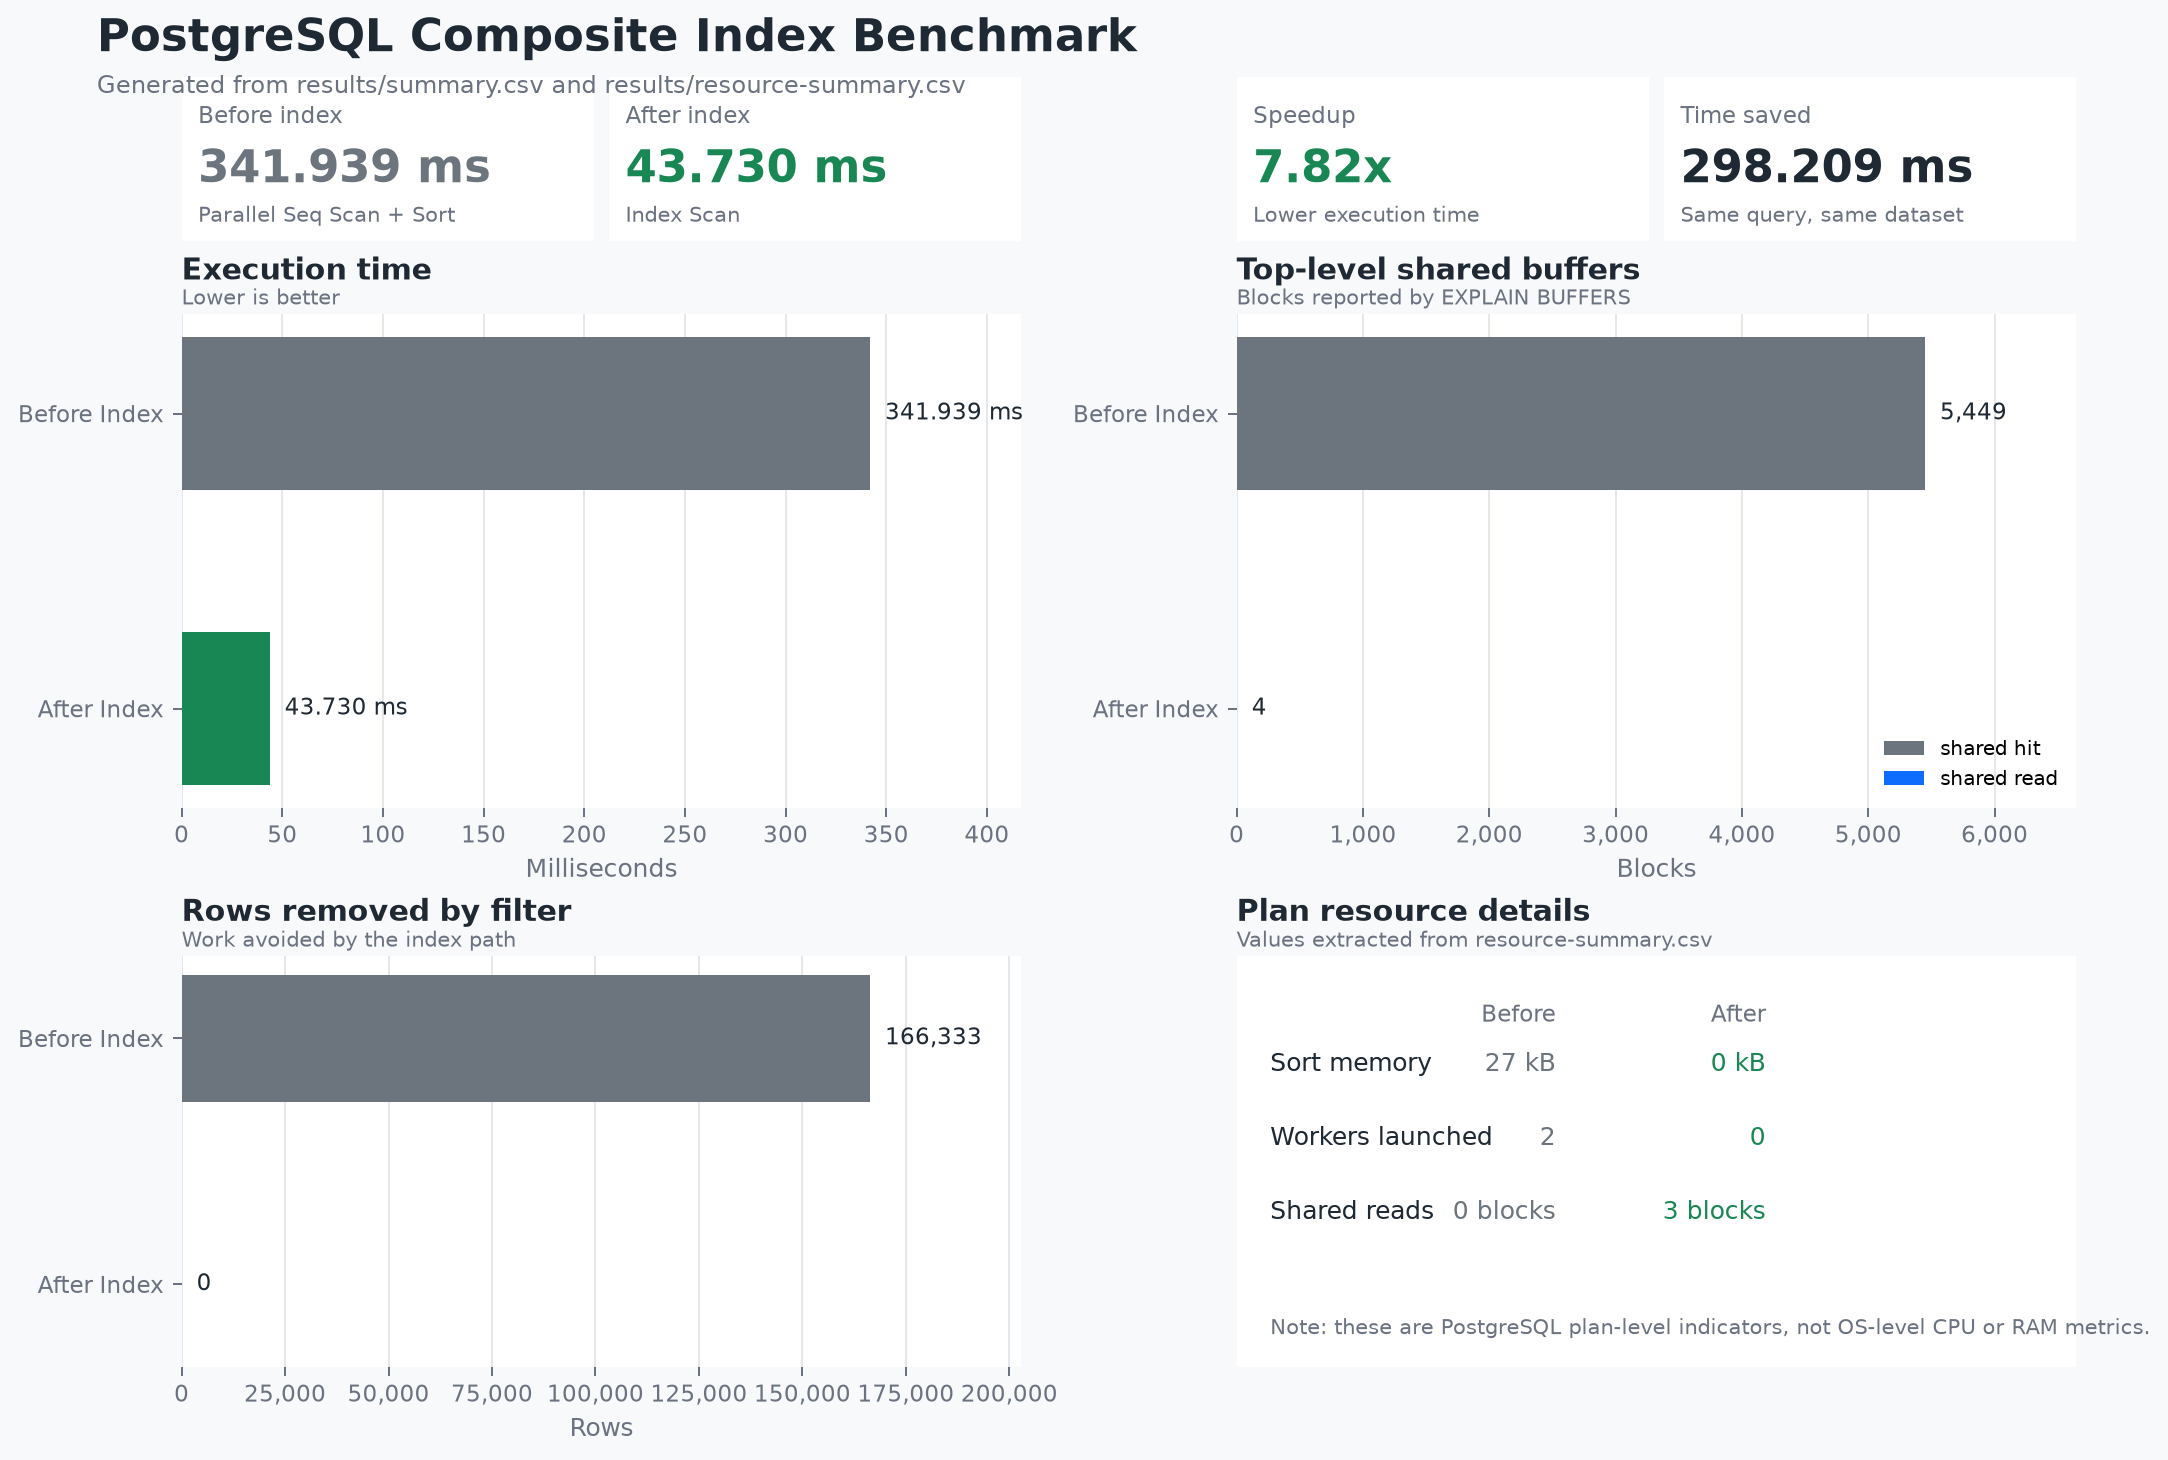
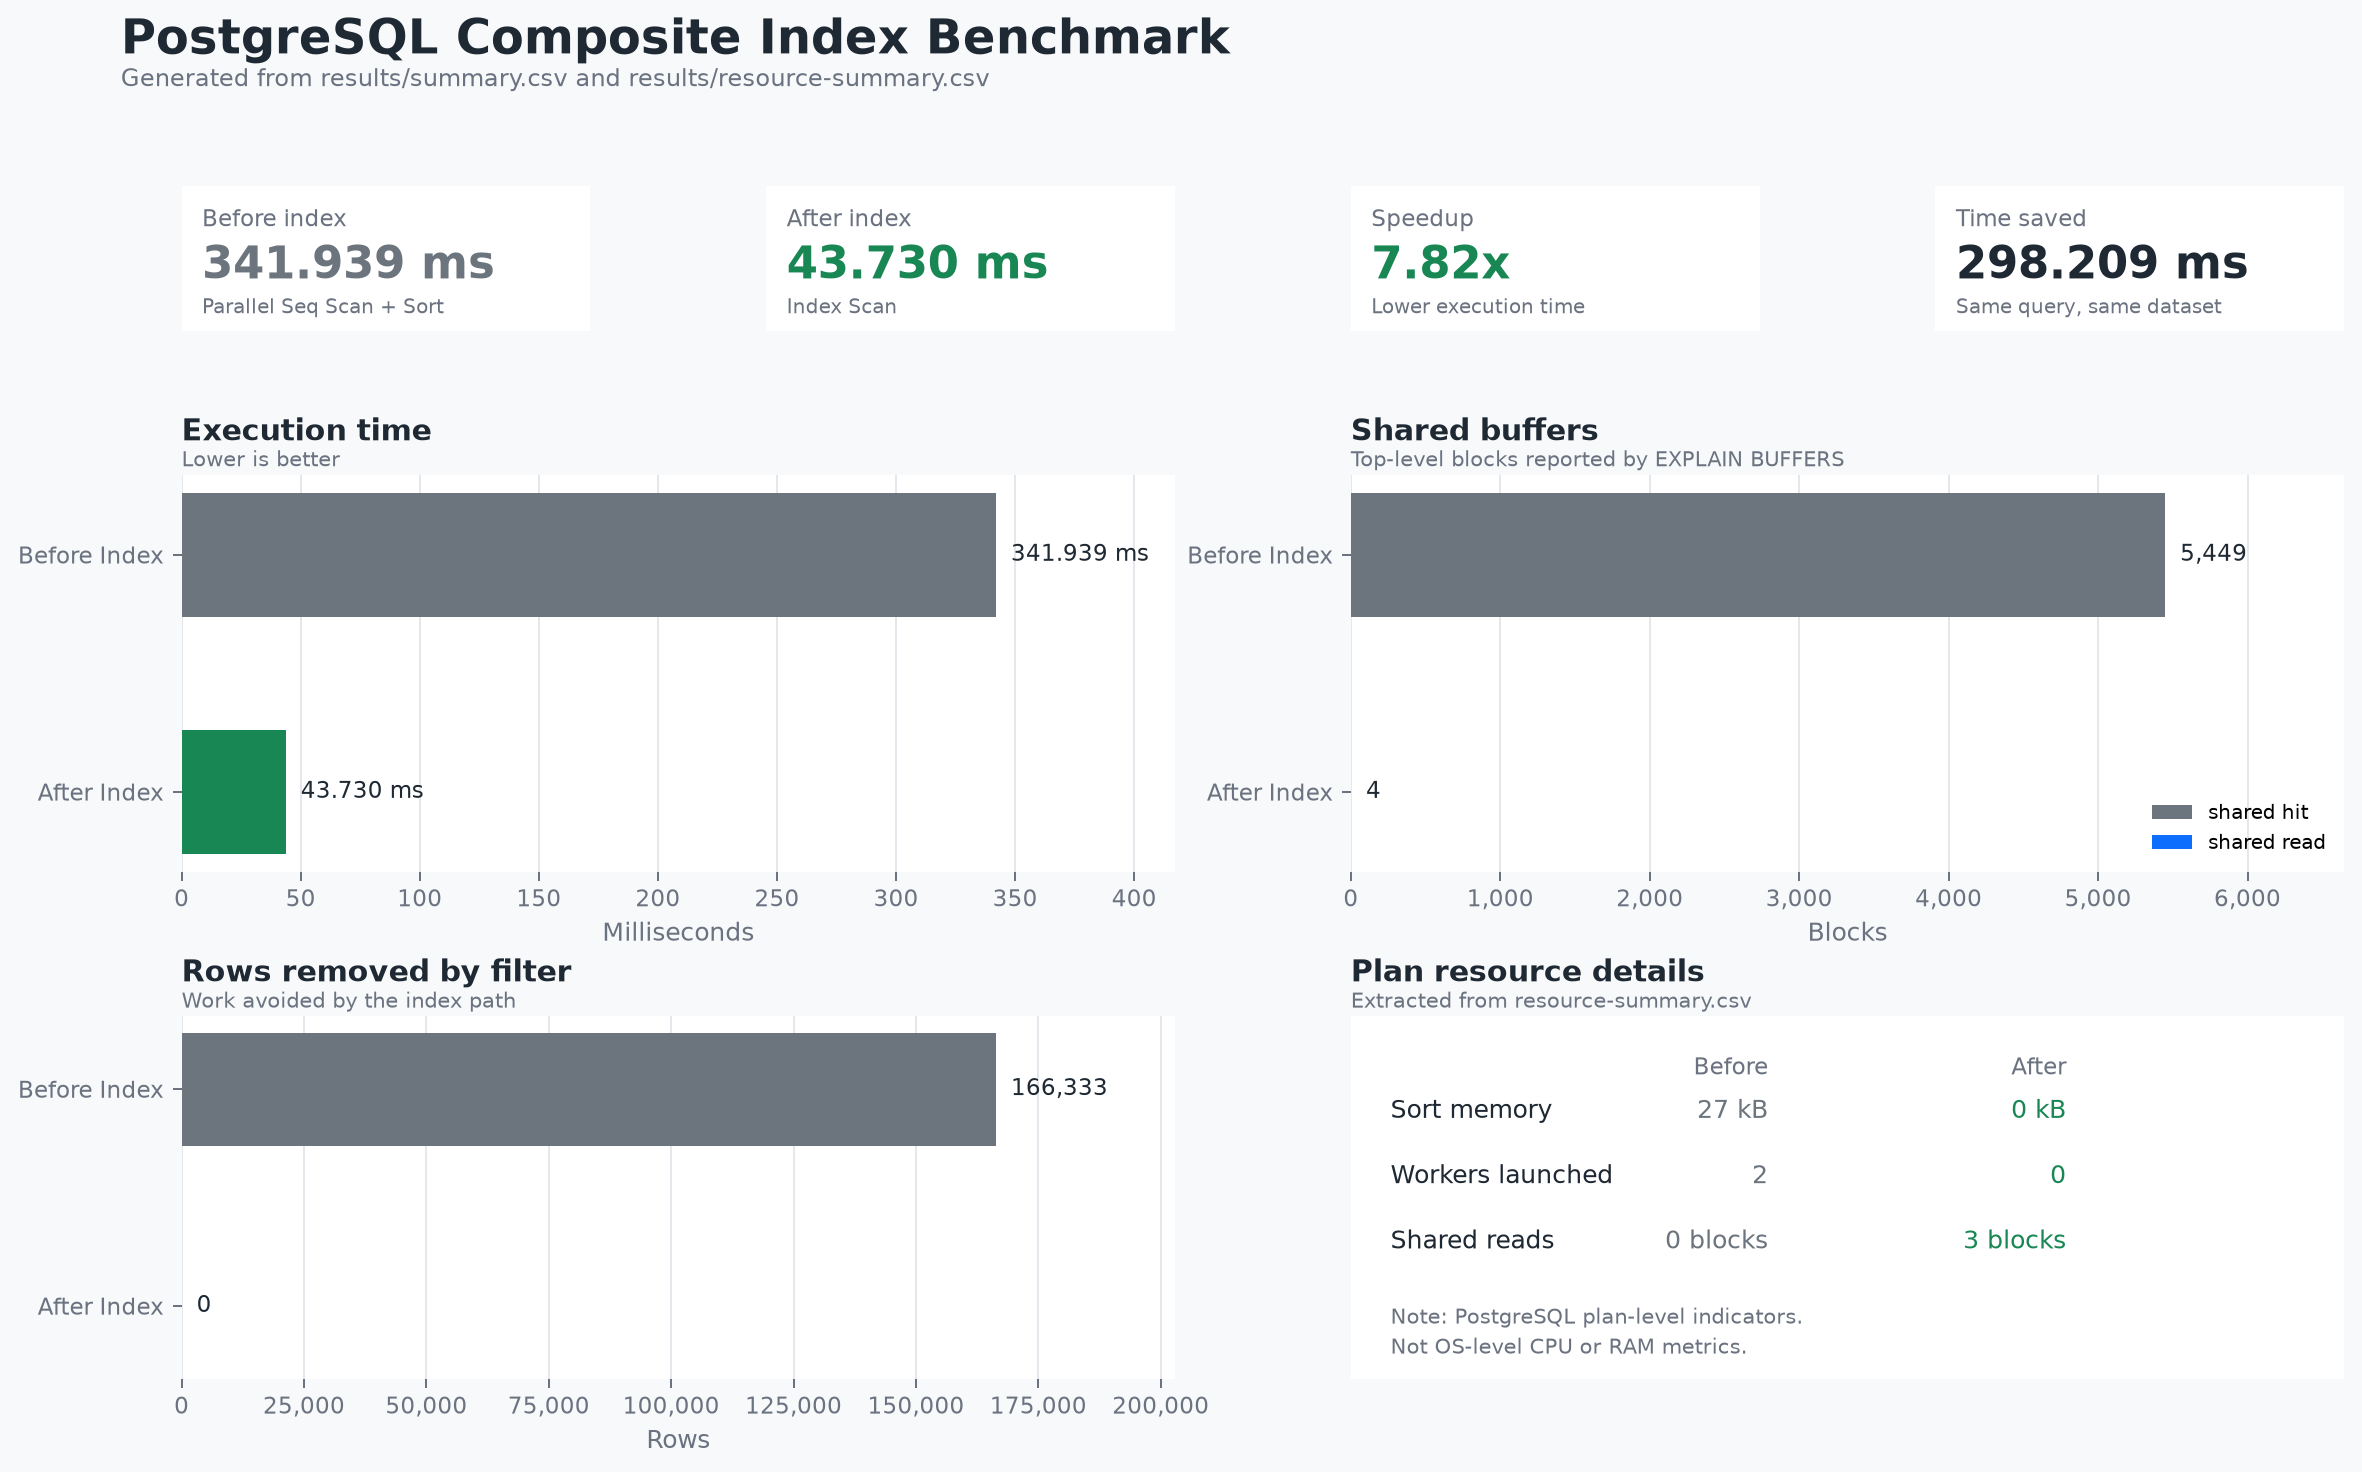
Better-visual

diff --git a/scripts/generate_chart.py b/scripts/generate_chart.py
@@ -3,6 +3,7 @@ from typing import Optional
 
 import matplotlib.pyplot as plt
 import pandas as pd
+from matplotlib.gridspec import GridSpec
 from matplotlib.ticker import FuncFormatter
 
 
@@ -104,25 +105,37 @@ def main() -> None:
         }
     )
 
-    fig = plt.figure(figsize=(12, 8), constrained_layout=True)
+    fig = plt.figure(figsize=(13.5, 8.5))
     fig.suptitle(
         "PostgreSQL Composite Index Benchmark",
-        fontsize=18,
+        fontsize=19,
         fontweight="bold",
         color=TEXT_COLOR,
-        x=0.04,
+        x=0.055,
+        y=0.97,
         ha="left",
     )
     fig.text(
-        0.04,
-        0.942,
+        0.055,
+        0.925,
         "Generated from results/summary.csv and results/resource-summary.csv",
         fontsize=9.5,
         color=MUTED_TEXT_COLOR,
         ha="left",
     )
 
-    layout = fig.add_gridspec(3, 4, height_ratios=[0.8, 2.4, 2.0])
+    layout = GridSpec(
+        3,
+        4,
+        figure=fig,
+        left=0.08,
+        right=0.97,
+        top=0.86,
+        bottom=0.08,
+        hspace=0.48,
+        wspace=0.43,
+        height_ratios=[0.86, 2.35, 2.15],
+    )
     kpi_axes = [fig.add_subplot(layout[0, i]) for i in range(4)]
     ax_time = fig.add_subplot(layout[1, :2])
     ax_buffers = fig.add_subplot(layout[1, 2:])
@@ -142,9 +155,9 @@ def main() -> None:
         ax.set_yticks([])
         for spine in ax.spines.values():
             spine.set_visible(False)
-        ax.text(0.04, 0.72, label, transform=ax.transAxes, fontsize=9, color=MUTED_TEXT_COLOR)
-        ax.text(0.04, 0.36, value, transform=ax.transAxes, fontsize=18, fontweight="bold", color=color)
-        ax.text(0.04, 0.12, caption, transform=ax.transAxes, fontsize=8.5, color=MUTED_TEXT_COLOR)
+        ax.text(0.05, 0.72, label, transform=ax.transAxes, fontsize=9, color=MUTED_TEXT_COLOR)
+        ax.text(0.05, 0.36, value, transform=ax.transAxes, fontsize=18, fontweight="bold", color=color)
+        ax.text(0.05, 0.12, caption, transform=ax.transAxes, fontsize=8.2, color=MUTED_TEXT_COLOR)
 
     labels = [normalize_scenario(scenario) for scenario in ordered_scenarios]
     times = [float(timing.loc[scenario, "execution_time_ms"]) for scenario in ordered_scenarios]
@@ -162,7 +175,7 @@ def main() -> None:
     ax_time.set_xlim(0, max(times) * 1.22)
 
     style_axis(ax_buffers)
-    add_panel_title(ax_buffers, "Top-level shared buffers", "Blocks reported by EXPLAIN BUFFERS")
+    add_panel_title(ax_buffers, "Shared buffers", "Top-level blocks reported by EXPLAIN BUFFERS")
     hits = [float(resources.loc[scenario, "shared_hit_blocks"]) for scenario in ordered_scenarios]
     reads = [float(resources.loc[scenario, "shared_read_blocks"]) for scenario in ordered_scenarios]
     hit_bars = ax_buffers.barh(y_positions, hits, color=colors, height=0.52, label="shared hit")
@@ -204,7 +217,7 @@ def main() -> None:
     ax_details.set_yticks([])
     for spine in ax_details.spines.values():
         spine.set_visible(False)
-    add_panel_title(ax_details, "Plan resource details", "Values extracted from resource-summary.csv")
+    add_panel_title(ax_details, "Plan resource details", "Extracted from resource-summary.csv")
 
     detail_rows = [
         ("Sort memory", "sort_memory_kb", "kB"),
@@ -212,8 +225,8 @@ def main() -> None:
         ("Shared reads", "shared_read_blocks", "blocks"),
     ]
     y = 0.72
-    ax_details.text(0.38, 0.84, "Before", transform=ax_details.transAxes, fontsize=9, color=MUTED_TEXT_COLOR, ha="right")
-    ax_details.text(0.63, 0.84, "After", transform=ax_details.transAxes, fontsize=9, color=MUTED_TEXT_COLOR, ha="right")
+    ax_details.text(0.42, 0.84, "Before", transform=ax_details.transAxes, fontsize=9, color=MUTED_TEXT_COLOR, ha="right")
+    ax_details.text(0.72, 0.84, "After", transform=ax_details.transAxes, fontsize=9, color=MUTED_TEXT_COLOR, ha="right")
     for label, column, unit in detail_rows:
         before_value = float(resources.loc["before_index", column])
         after_value = float(resources.loc["after_index", column])
@@ -223,17 +236,18 @@ def main() -> None:
             before_text = f"{before_text} {unit}"
             after_text = f"{after_text} {unit}"
         ax_details.text(0.04, y, label, transform=ax_details.transAxes, fontsize=10, color=TEXT_COLOR)
-        ax_details.text(0.38, y, before_text, transform=ax_details.transAxes, fontsize=10, color=BEFORE_COLOR, ha="right")
-        ax_details.text(0.63, y, after_text, transform=ax_details.transAxes, fontsize=10, color=AFTER_COLOR, ha="right")
+        ax_details.text(0.42, y, before_text, transform=ax_details.transAxes, fontsize=10, color=BEFORE_COLOR, ha="right")
+        ax_details.text(0.72, y, after_text, transform=ax_details.transAxes, fontsize=10, color=AFTER_COLOR, ha="right")
         y -= 0.18
 
     ax_details.text(
         0.04,
-        0.08,
-        "Note: these are PostgreSQL plan-level indicators, not OS-level CPU or RAM metrics.",
+        0.07,
+        "Note: PostgreSQL plan-level indicators.\nNot OS-level CPU or RAM metrics.",
         transform=ax_details.transAxes,
-        fontsize=8.5,
+        fontsize=8.3,
         color=MUTED_TEXT_COLOR,
+        linespacing=1.35,
     )
 
     fig.savefig(OUTPUT_PATH, dpi=180, bbox_inches="tight")
